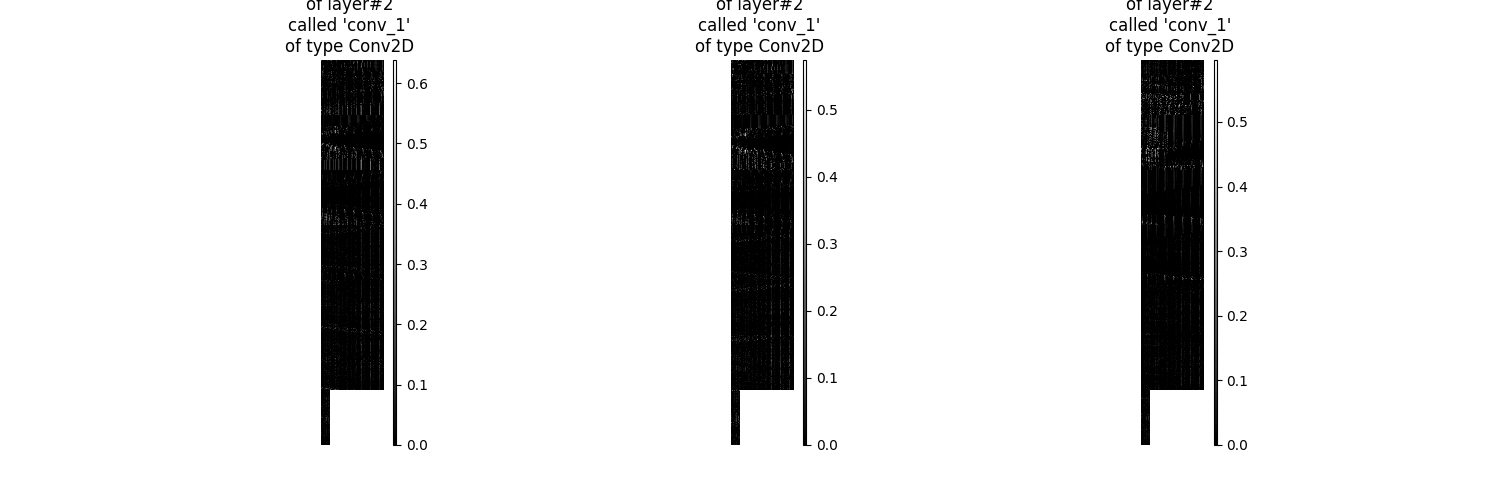
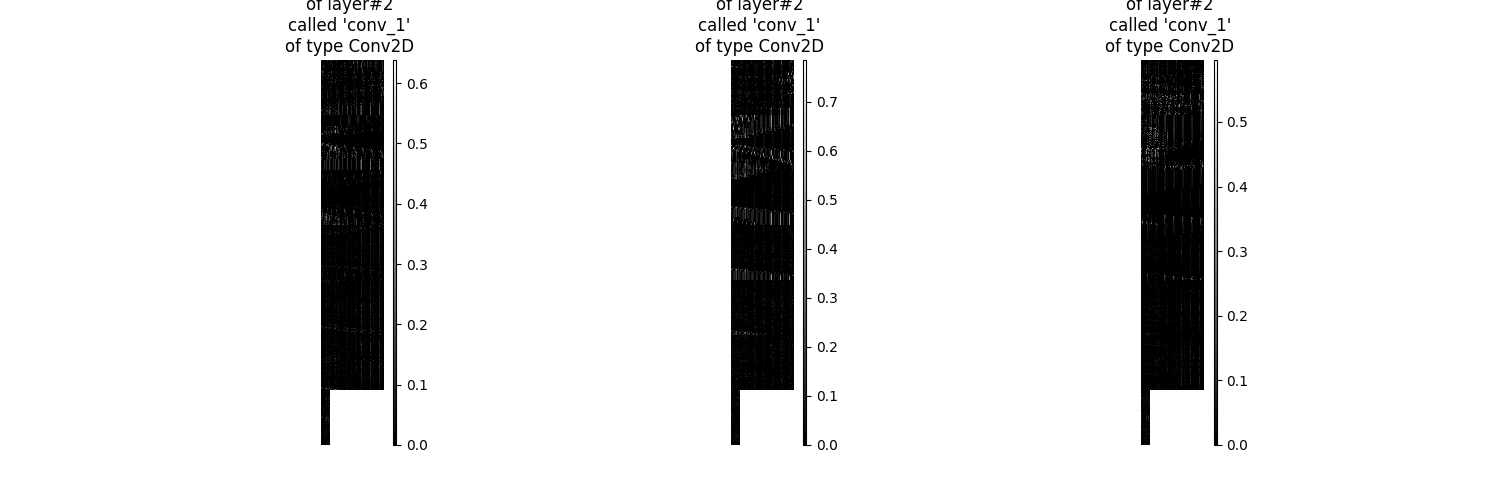
Completed work at writeup report, generated figures for it

diff --git a/visualization.py b/visualization.py
@@ -59,7 +59,7 @@ image = cv2.imread('./pics/center_2016_12_01_13_42_42_686.jpg')
 image = cv2.cvtColor(image, cv2.COLOR_BGR2RGB)
 images.append(image)
 
-image = cv2.imread('./pics/center_2016_12_01_13_45_31_341.jpg')
+image = cv2.imread('./pics/right_2016_12_01_13_32_52_652.jpg')
 image = cv2.cvtColor(image, cv2.COLOR_BGR2RGB)
 images.append(image)
 

diff --git a/writeup_report.md b/writeup_report.md
@@ -1,0 +1,133 @@
+# **Behavioral Cloning** 
+
+## Writeup report
+
+---
+
+**Behavioral Cloning Project**
+
+The goals / steps of this project are the following:
+* Use the simulator to collect data of good driving behavior
+* Build, a convolution neural network in Keras that predicts steering angles from images
+* Train and validate the model with a training and validation set
+* Test that the model successfully drives around track one without leaving the road
+* Summarize the results with a written report
+
+
+[//]: # (Image References)
+
+[image1]: ./pics/center_2016_12_01_13_40_11_279.jpg "Random Pic. Train Data 1"
+[image2]: ./pics/center_2016_12_01_13_42_42_686.jpg "Random Pic. Train Data 2"
+[image3]: ./pics/right_2016_12_01_13_32_52_652.jpg "Random Pic. Train Data 3"
+[image4]: ./pics/conv_1.png "Conv. Layer 1"
+[image5]: ./pics/conv_2.png "Conv. Layer 2"
+[image6]: ./pics/conv_3.png "Conv. Layer 3"
+[image7]: ./pics/conv_4.png "Conv. Layer 4"
+[image8]: ./pics/conv_5.png "Conv. Layer 5"
+[image9]: ./pics/nvidia_model.png "Nvidia Model Architecture"
+
+
+## Rubric Points
+### Here I will consider the [rubric points](https://review.udacity.com/#!/rubrics/432/view) individually and describe how I addressed each point in my implementation.  
+
+---
+### Files Submitted & Code Quality
+
+#### 1. Submission includes all required files and can be used to run the simulator in autonomous mode
+
+My project includes the following files:
+* model.py containing the script to create and train the model
+* drive.py for driving the car in autonomous mode
+* model.h5.zip containing a trained convolution neural network 
+* writeup_report.md  summarizing the results
+* visualization.py for generation figures automatically
+
+Notes:
+* I updated Keras to Version 2.0.3 (via pip)
+* I installed pydot (pip install pydot) and installed graphviz for keras model visualization
+* For CNN layer visulization I used keras-toolbox (pip install keras-toolbox)
+* I had to zip model.h5 cause of githubs 100MB limit. Please unzip in manually!
+
+#### 2. Submission includes functional code
+Using the Udacity provided simulator and my drive.py file, the car can be driven autonomously around the track by executing 
+```sh
+python drive.py model.h5
+```
+
+#### 3. Submission code is usable and readable
+
+The model.py file contains the code for training and saving the convolution neural network. The file shows the pipeline I used for training and validating the model, and it contains comments to explain how the code works.
+
+### Model Architecture and Training Strategy
+
+#### 1. An appropriate model architecture has been employed
+
+My model consists of various convolution neural network layers and followed by flully connceted layer.  For details about the implemented model architecture please see section 2.
+
+The model includes RELU layers to introduce nonlinearity, and the data is normalized in the model using a Keras lambda layer (code line 83). 
+
+#### 2. Attempts to reduce overfitting in the model
+
+The model contains dropout layers in order to reduce overfitting (model.py lines 89, 96, 98, 100, 102). 
+
+The model was trained and validated on to ensure that the model was not overfitting (code line 109). The model was tested by running it through the simulator and ensuring that the vehicle could stay on the track.
+
+#### 3. Model parameter tuning
+
+The model used an adam optimizer, so the learning rate was not tuned manually (model.py line 105).
+
+#### 4. Appropriate training data
+
+Training data was chosen to keep the vehicle driving on the road. I used a combination of center lane driving, recovering from the left and right sides of the road. 
+
+For details about how I created the training data and wich one I used, see the next section. 
+
+### Model Architecture and Training Strategy
+
+#### 1. Solution Design Approach
+
+The overall strategy for deriving a model architecture was to implement the architecture shown and described in more detail at https://images.nvidia.com/content/tegra/automotive/images/2016/solutions/pdf/end-to-end-dl-using-px.pdf .
+
+My first step was to use a simple fully connected neural network. Mainly to test my own setup and test runs. Afterwards I implemented the NVIDIA architecture.
+
+In order to gauge how well the model was working, I split my image and steering angle data into a training and validation set. I found that my first model had a low mean squared error on the training set but a high mean squared error on the validation set. This implied that the model was overfitting. 
+
+The model was gradually improved by introducing the dropout mechanism (for CNNs the so-called SpatialDropout as described in more detail at https://www.tensorflow.org/api_docs/python/tf/keras/layers/SpatialDropout2D) and adjusting the factor. Especially with SpatialDropout I noticed that a factor >0.5 is not recommended.
+
+The final step was to run the simulator to see how well the car was driving around track one. There were a few spots where the vehicle fell off the track. Especially at places where a road boundary was only dirt or where the curves were very sharp. Increasing the epochs has also had a positive (albeit small) effect here.
+
+At the end of the process, the vehicle is able to drive autonomously around the track without leaving the road.
+
+#### 2. Final Model Architecture
+
+The final model architecture (model.py lines 77-103) consisted of various convolution neural networks and fully connected networks with the following layers and layer sizes (the visualization was generated automatically (visualization.py lines 54-55):
+
+![alt text][image9]
+
+To better understand the principle of CNNs and their learned filters, I set myself the task of visualizing them. This could be very helpful for future projects and tasks. The visualization is therefore also outsourced to the visualization.py module. I used the recommended keras-toolbox (https://github.com/hadim/keras-toolbox).
+
+For the following three images, the individual feature sets are now visualized:
+![alt text][image2] ![alt text][image3] ![alt text][image1]
+
+![alt text][image4]
+![alt text][image5]
+![alt text][image6]
+![alt text][image7]
+![alt text][image8]
+
+It is impressive to see how the network learns its filter for the detection of road boundaries and edges in these layers. The ability to abstract features mentioned in the corresponding Udacity lessons can also be observed (only few white vertical lines in the last layer compared to the first layers).
+
+#### 3. Creation of the Training Set & Training Process
+
+To capture good driving behavior, I first recorded one laps on track one using center lane driving. 
+I then recorded the vehicle recovering from the left side and right sides of the road back to center so that the vehicle would learn to recover. In the end, however, I used the data provided by udacity. However, my data was very revealing for initial tests.
+
+I deliberately didn't consider the second track for the training. As a final test for my then hopefully generalized model (the model shows an acceptable behavior here).
+
+To augment the data sat, I also flipped images and angles thinking to have more training data. I also added to this augmented data a correction factor of +/-0.25. So I interpret the data as a new independent lap of the car.
+
+After the collection process, I had almost 39.000 number of data points. I then preprocessed this data by normalization and cropping.
+
+I finally randomly shuffled the data set and put 20% of the data into a validation set. 
+
+I used this training data for training the model. The validation set helped determine if the model was over or under fitting. The ideal number of epochs was 7 as evidenced by that the car can complete a full lap without violating any of the required requirements. I used an adam optimizer so that manually training the learning rate wasn't necessary.
